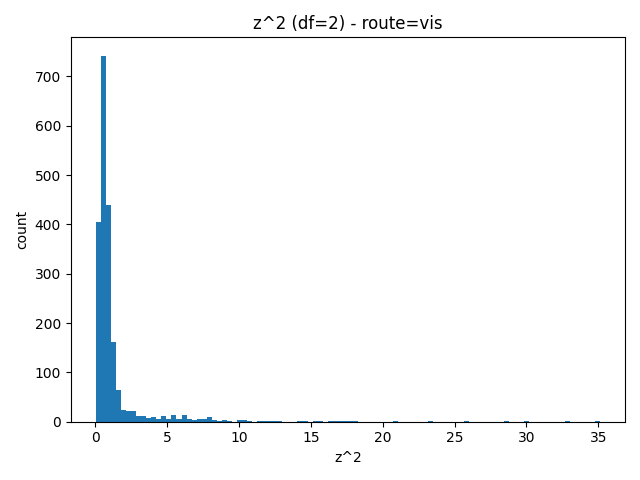
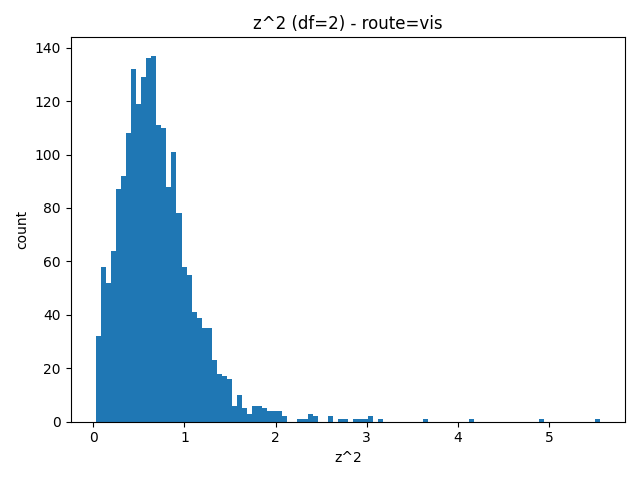
2

diff --git a/train.py b/train.py
@@ -41,7 +41,8 @@ def parse_args():
     ap.add_argument("--num_workers", type=int, default=rt.get("num_workers",0))
     ap.add_argument("--logv_min", type=float, default=tr.get("logv_min",-12.0))
     ap.add_argument("--logv_max", type=float, default=tr.get("logv_max",6.0))
-    ap.add_argument("--z2_center", type=float, default=tr.get("z2_center",0.0), help="VIS路由z²居中正则化权重")
+    ap.add_argument("--z2_center", type=float, default=tr.get("z2_center",0.0), help="z²居中正则化权重")
+    ap.add_argument("--z2_center_target", type=str, default=tr.get("z2_center_target","auto"), help="z²目标值: 'auto' 或数字")
     ap.add_argument("--anchor_weight", type=float, default=tr.get("anchor_weight",0.0))
     ap.add_argument("--early_patience", type=int, default=tr.get("early_patience", 10))
     ap.add_argument("--device", default=rt.get("device","cuda" if torch.cuda.is_available() else "cpu"))
@@ -87,18 +88,31 @@ def main():
             if args.route == "vis":
                 loss = nll_iso2_e2(batch["E2"], logv, m,
                                    logv_min=args.logv_min, logv_max=args.logv_max)
-                # z²居中正则化：推动z²均值接近1
-                if args.z2_center > 0:
-                    v = torch.exp(logv).clamp_min(1e-12)
-                    z2 = (batch["E2"].squeeze(-1) / v.squeeze(-1)) / 2.0
-                    m_float = m.float()
-                    mean_z2 = (z2 * m_float).sum() / m_float.clamp_min(1.0).sum()
-                    loss = loss + args.z2_center * (mean_z2 - 1.0).pow(2)
             else:
                 loss = nll_iso3_e2(batch["E2"], logv, m,
                                    logv_min=args.logv_min, logv_max=args.logv_max)
                 if args.anchor_weight > 0:
                     loss = loss + mse_anchor_1d(logv, y, m, lam=args.anchor_weight)
+            
+            # z²居中正则化（通用于VIS和IMU）
+            if args.z2_center > 0:
+                # 与 NLL 一致地 clamp，再求方差
+                lv = torch.clamp(logv, min=args.logv_min, max=args.logv_max)
+                v = torch.exp(lv).clamp_min(1e-12)
+                df = 2.0 if args.route == "vis" else 3.0
+                e2 = batch["E2"].squeeze(-1)
+                m_float = m.float().squeeze(-1)
+                
+                z2 = (e2 / v.squeeze(-1)) / df
+                mean_z2 = (z2 * m_float).sum() / m_float.clamp_min(1.0).sum()
+                
+                # 目标值：高斯=1；若是 Student-t 则 nu/(nu-2)
+                if args.z2_center_target == "auto":
+                    target = 1.0  # 默认高斯目标
+                else:
+                    target = float(args.z2_center_target)
+                
+                loss = loss + args.z2_center * (mean_z2 - target).pow(2)
             if training:
                 opt.zero_grad(set_to_none=True)
                 loss.backward()

diff --git a/metrics.py b/metrics.py
@@ -28,35 +28,35 @@ def _route_metrics(e2sum: torch.Tensor, logv: torch.Tensor, mask: torch.Tensor,
     z2 = torch.clamp(z2, min=0.0)
     msum = torch.clamp(m.sum(), min=1.0)
     z2_mean = float((z2 * m).sum() / msum)
-    rad = torch.sqrt(z2)
     
-    # 使用正确的卡方分位数阈值
-    from math import sqrt
+    # 直接在z²空间做覆盖率（不取sqrt）
     if abs(df - 2.0) < 1e-6:
-        r68, r95 = 1.509596, 2.447746  # χ²₂(0.68), χ²₂(0.95)
+        z2_68, z2_95 = 2.27886856637673/2.0, 5.99146454710798/2.0  # χ²₂(0.68)/2, χ²₂(0.95)/2
     elif abs(df - 3.0) < 1e-6:
-        r68, r95 = 1.872401, 2.795483  # χ²₃(0.68), χ²₃(0.95)
+        z2_68, z2_95 = 3.505882355768183/3.0, 7.814727903251178/3.0  # χ²₃(0.68)/3, χ²₃(0.95)/3
     else:
-        r68, r95 = 1.0, 2.0  # fallback for other df values
+        z2_68, z2_95 = 1.0, 4.0  # fallback for other df values
     
-    cov68 = float((((rad <= r68).float() * m).sum()) / msum)
-    cov95 = float((((rad <= r95).float() * m).sum()) / msum)
+    cov68 = float((((z2 <= z2_68).float() * m).sum()) / msum)
+    cov95 = float((((z2 <= z2_95).float() * m).sum()) / msum)
 
-    es = (e2sum * m).detach().cpu().numpy().reshape(-1)
-    vv = (var * m).detach().cpu().numpy().reshape(-1)
-    mask_flat = (m.detach().cpu().numpy().reshape(-1) > 0.5)
-    es = es[mask_flat]
-    vv = vv[mask_flat]
-    if es.size < 3:
-        spear = 0.0
+    # 排序相关性（err² vs var）
+    v = torch.exp(torch.clamp(logv, min=logv_min, max=logv_max))
+    mask_flat = (m.reshape(-1) > 0).cpu().numpy()
+    v_np = v.reshape(-1).detach().cpu().numpy()[mask_flat]
+    e_np = e2sum.reshape(-1).detach().cpu().numpy()[mask_flat]
+    if v_np.size >= 3:
+        rr = np.argsort(np.argsort(e_np))
+        vv = np.argsort(np.argsort(v_np))
+        spear = float(np.corrcoef(rr, vv)[0, 1])
     else:
-        rx = np.argsort(np.argsort(es))
-        ry = np.argsort(np.argsort(vv))
-        spear = float(np.corrcoef(rx, ry)[0, 1])
+        spear = 0.0
 
-    lv = logv.detach()
-    sat = ((lv <= logv_min) | (lv >= logv_max)).float()
-    sat = float((sat * m).sum() / msum)
+    # 饱和分解，便于判断是打上限还是打下限
+    lv = torch.clamp(logv, min=logv_min, max=logv_max)
+    sat_min = float((((lv <= logv_min).float() * m).sum()) / msum)
+    sat_max = float((((lv >= logv_max).float() * m).sum()) / msum)
+    sat = sat_min + sat_max
 
     out = {
         "z2_mean": z2_mean,
@@ -64,6 +64,8 @@ def _route_metrics(e2sum: torch.Tensor, logv: torch.Tensor, mask: torch.Tensor,
         "cov95": cov95,
         "spear": spear,
         "sat": sat,
+        "sat_min": sat_min,
+        "sat_max": sat_max,
         "ez2": z2_mean,
     }
 
